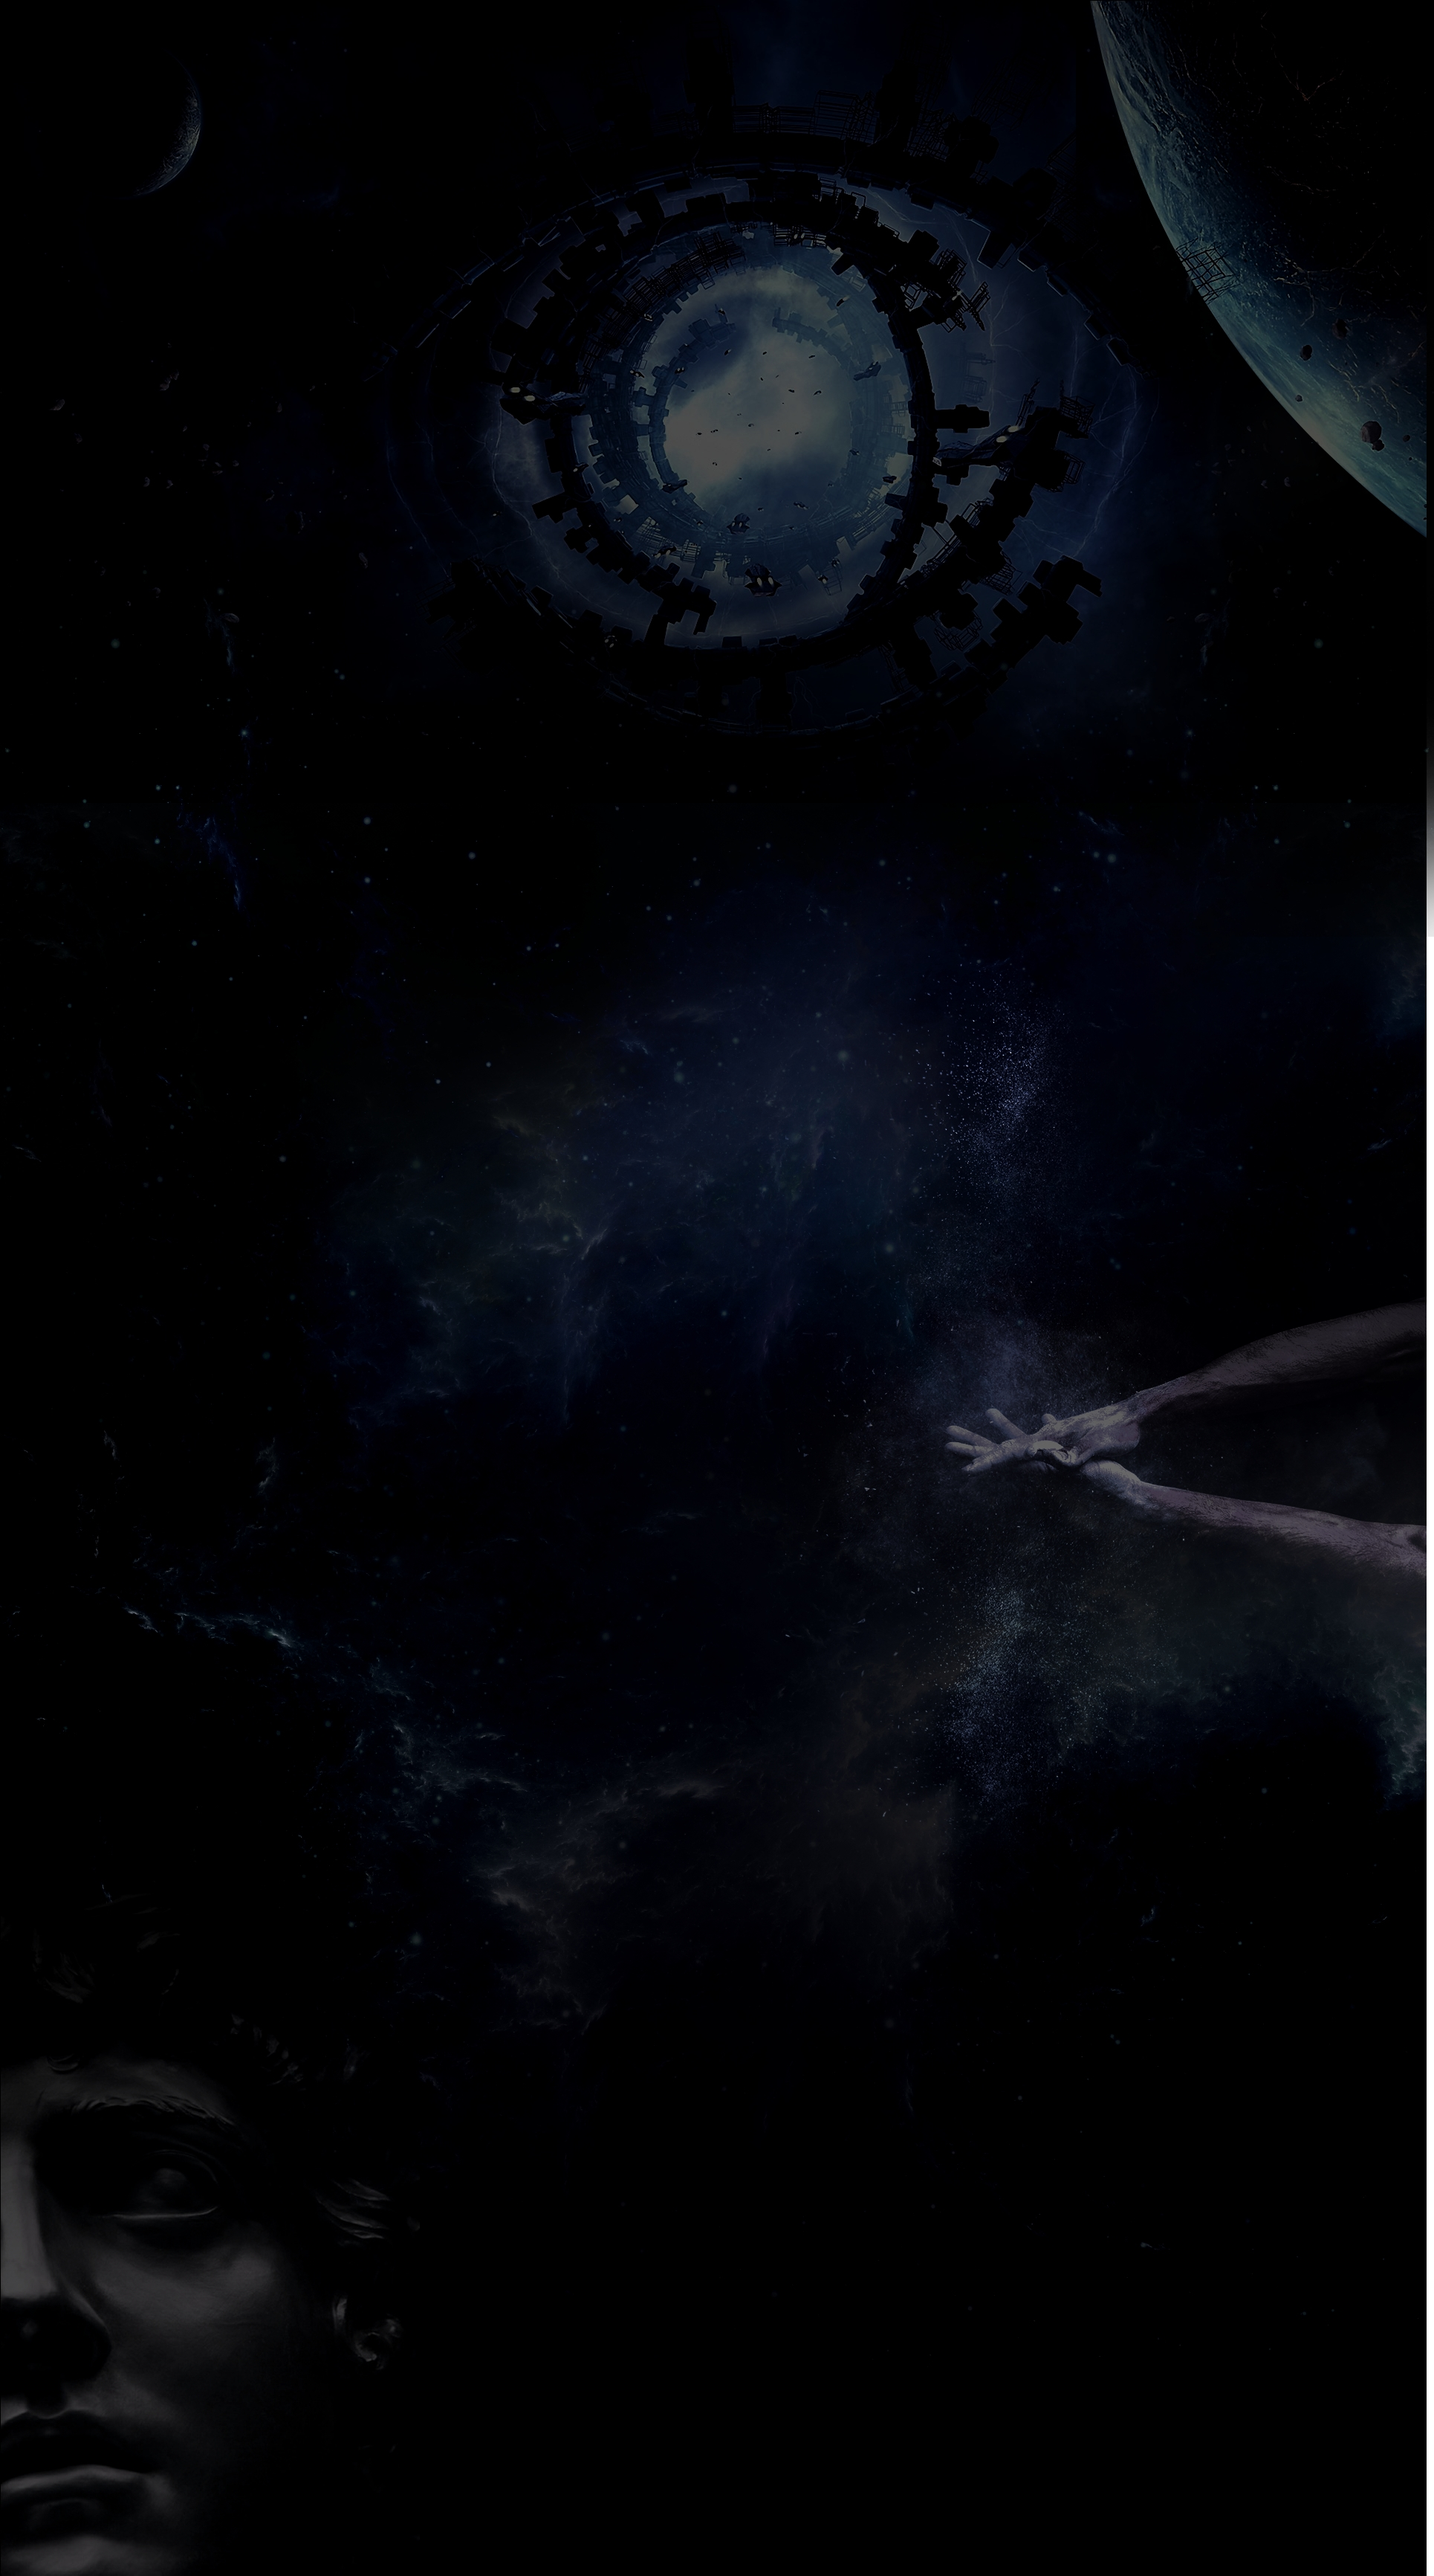
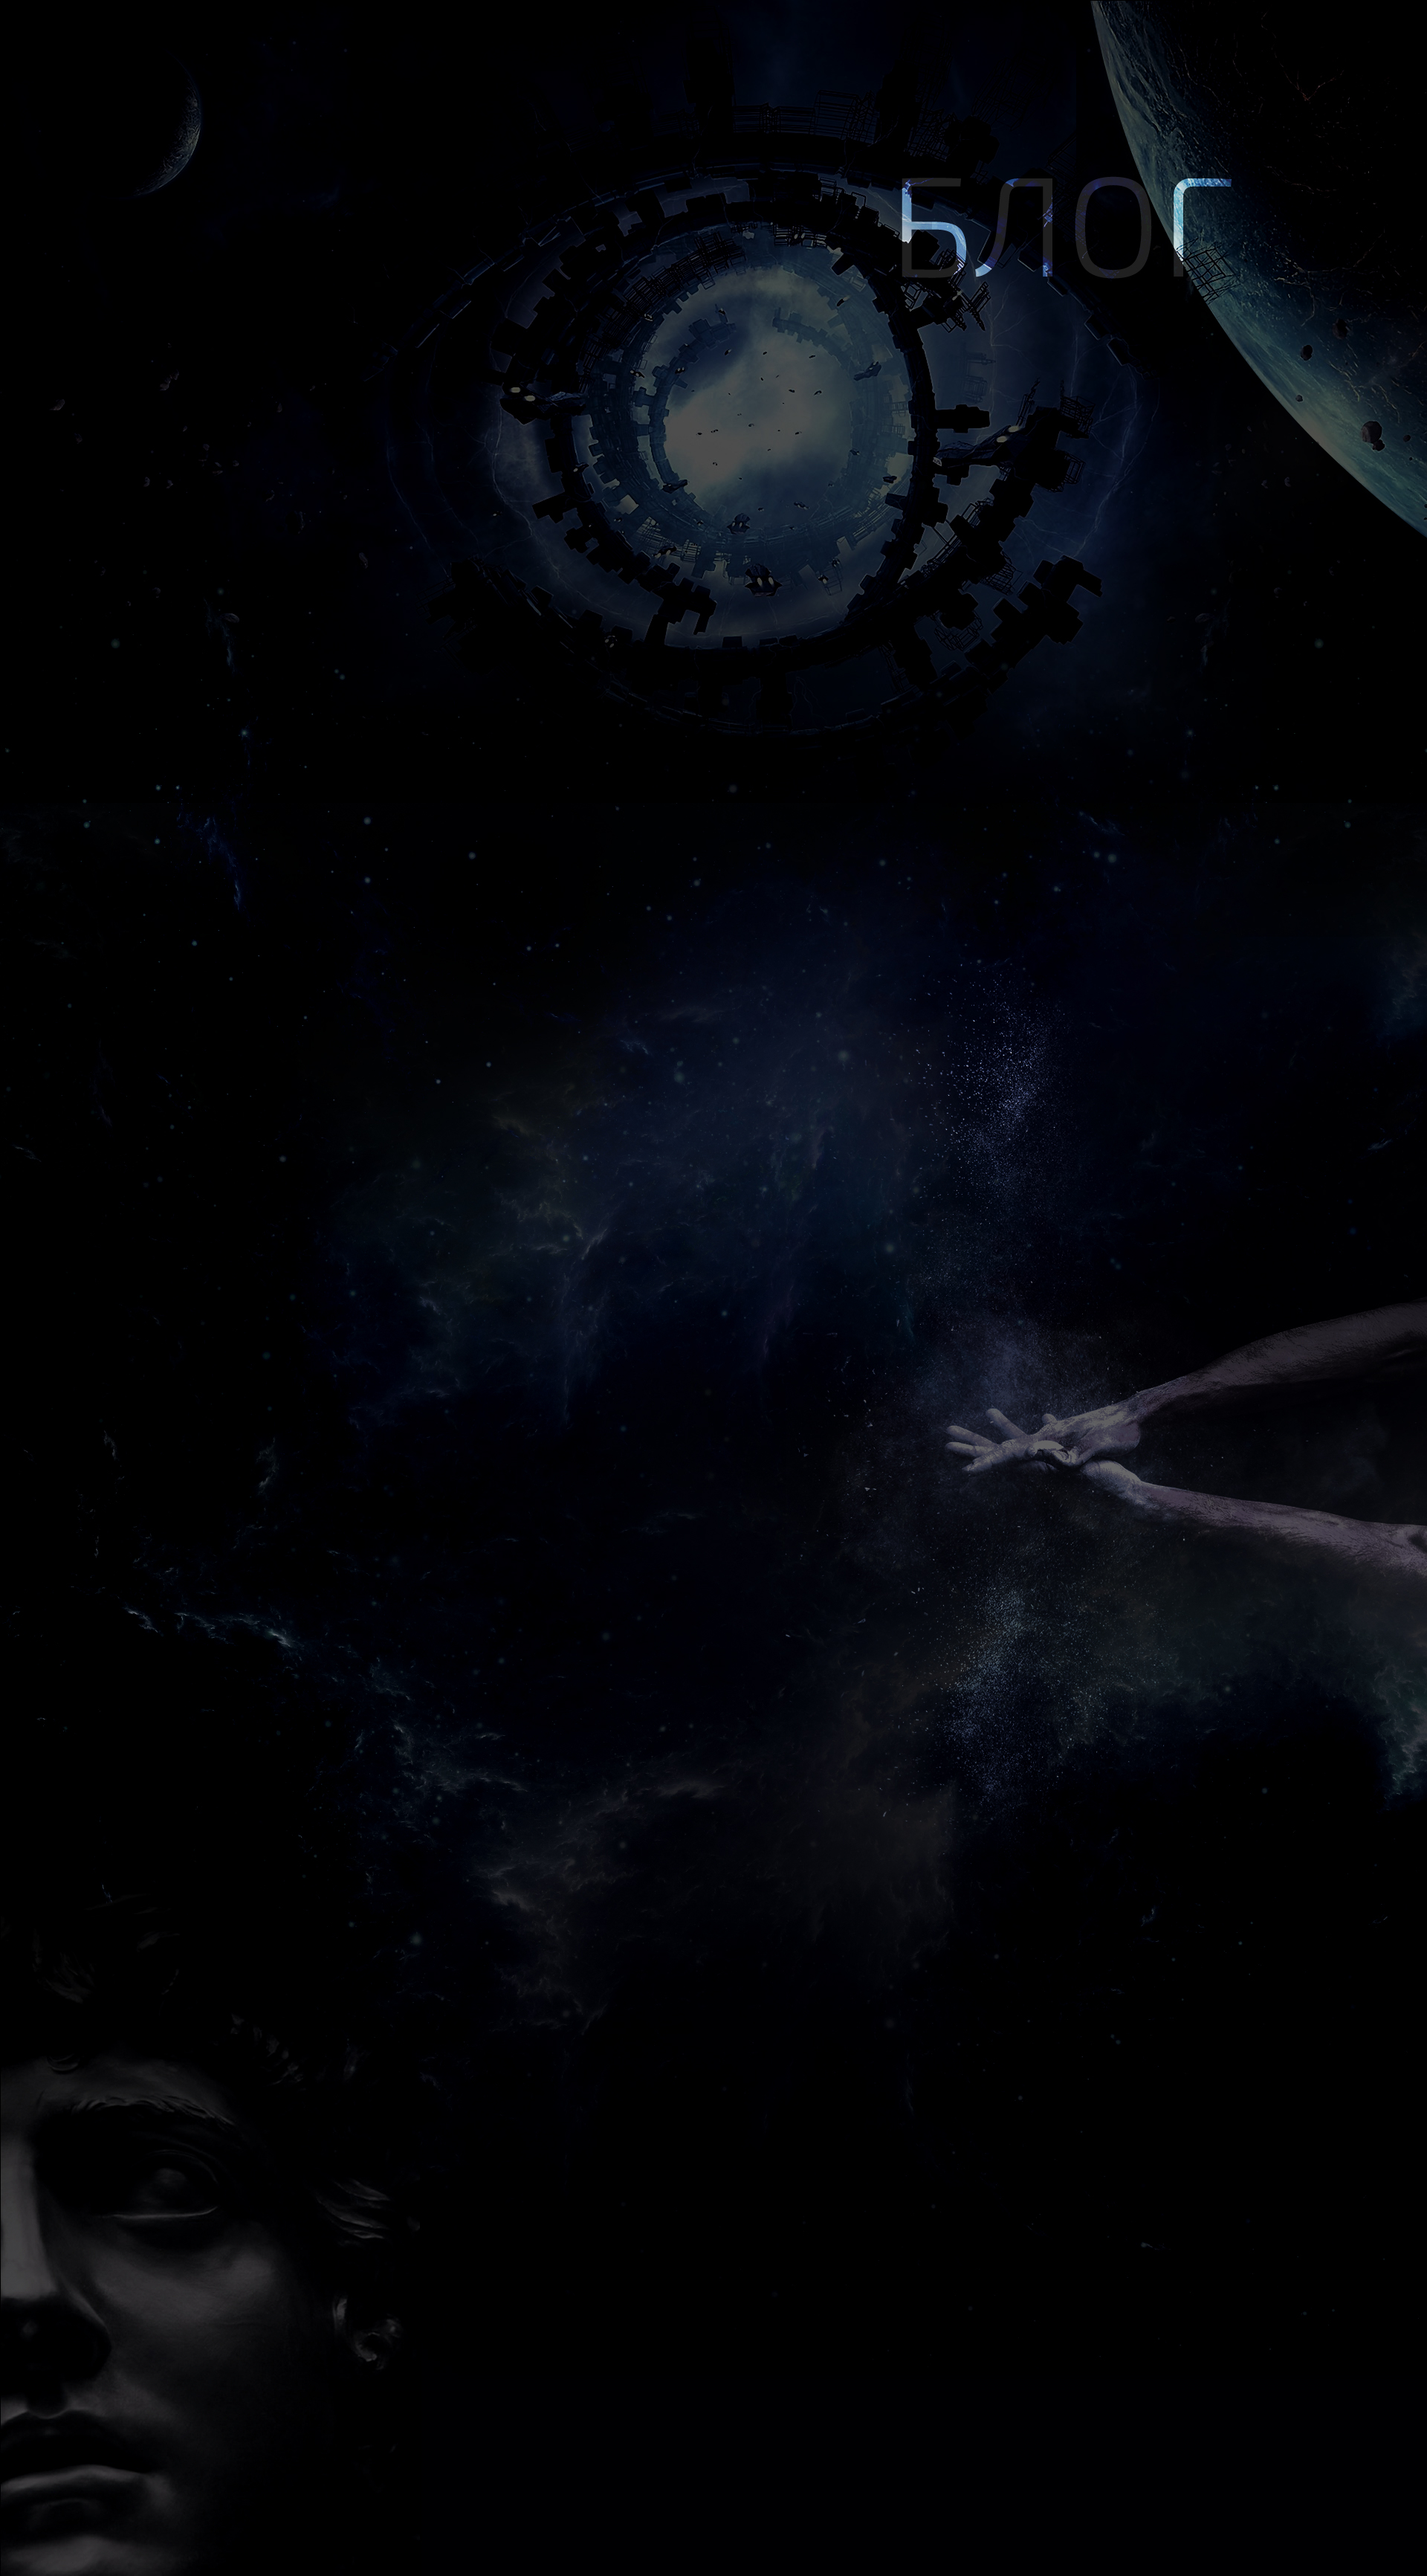
fix css

diff --git a/news.html b/news.html
@@ -99,7 +99,6 @@
         <main class="main">
           <div class="news">
             <div class="container3">
-              <div class="news__title">Блог</div>
               <section class="news-them"><a class="news-them__item" href="./"><span class="news-them__title">Кейсы</span><span class="news-them__count"> (50)</span></a><a class="news-them__item" href="./"><span class="news-them__title">Продвижение SEO</span><span class="news-them__count"> (10)</span></a><a class="news-them__item" href="./"><span class="news-them__title">Создание сайтов </span><span class="news-them__count"> (13)</span></a><a class="news-them__item" href="./"><span class="news-them__title">Интернет реклама</span><span class="news-them__count"> (8)</span></a><a class="news-them__item" href="./"><span class="news-them__title">Повышение продаж</span><span class="news-them__count"> (11)</span></a><a class="news-them__item" href="./"><span class="news-them__title">Бизнес о бизнесе</span><span class="news-them__count"> (17)</span></a><a class="news-them__item" href="./"><span class="news-them__title">SMM и SMO</span><span class="news-them__count"> (35)</span></a><a class="news-them__item" href="./"><span class="news-them__title">Тексты и контент-маркетинг</span><span class="news-them__count"> (7)</span></a><a class="news-them__item" href="./"><span class="news-them__title">Продвижение SEO</span><span class="news-them__count"> (10)</span></a><a class="news-them__item" href="./"><span class="news-them__title">Создание сайтов</span><span class="news-them__count"> (13)</span></a><a class="news-them__item" href="./"><span class="news-them__title">Интернет реклама</span><span class="news-them__count"> (8)</span></a><a class="news-them__item" href="./"><span class="news-them__title">Повышение продаж</span><span class="news-them__count"> (11)</span></a><a class="news-them__item" href="./"><span class="news-them__title">Бизнес о бизнесе</span><span class="news-them__count"> (17)</span></a><a class="news-them__item" href="./"><span class="news-them__title">Кейсы</span><span class="news-them__count"> (50)</span></a><a class="news-them__item" href="./"><span class="news-them__title">Продвижение SEO</span><span class="news-them__count"> (10)</span></a><a class="news-them__item" href="./"><span class="news-them__title">Создание сайтов</span><span class="news-them__count"> (13)</span></a><a class="news-them__item" href="./"><span class="news-them__title">Интернет реклама</span><span class="news-them__count"> (8)</span></a><a class="news-them__item" href="./"><span class="news-them__title">Повышение продаж</span><span class="news-them__count"> (11)</span></a>
               </section>
               <section class="news-arts">

diff --git a/css/main.css b/css/main.css
@@ -7449,18 +7449,16 @@ input, textarea, select {
 /*-----------------SECTION-NEWS--------------------*/
 .news {
   background: url("../images/bg/newsBg.jpg") 0 0 no-repeat;
-  padding-top: 200px;
+  padding-top: 520px;
 }
 
 .news__title {
   font-size: 191px;
   font-weight: 300;
   text-transform: uppercase;
-  padding-right: 260px;
   text-align: right;
   color: #1f1f1f;
   opacity: .5;
-  margin-bottom: 90px;
 }
 
 .news-them {

diff --git a/css/sections/news.scss b/css/sections/news.scss
@@ -1,17 +1,15 @@
 .news {
   background: url("../images/bg/newsBg.jpg") 0 0 no-repeat;
   //background-size: 100% 100%;
-  padding-top: 200px;
+  padding-top: 520px;
 
   &__title {
     font-size: 191px;
     font-weight: 300;
     text-transform: uppercase;
-    padding-right: 260px;
     text-align: right;
     color: #1f1f1f;
     opacity: .5;
-    margin-bottom: 90px;
   }
 
   &-them {
